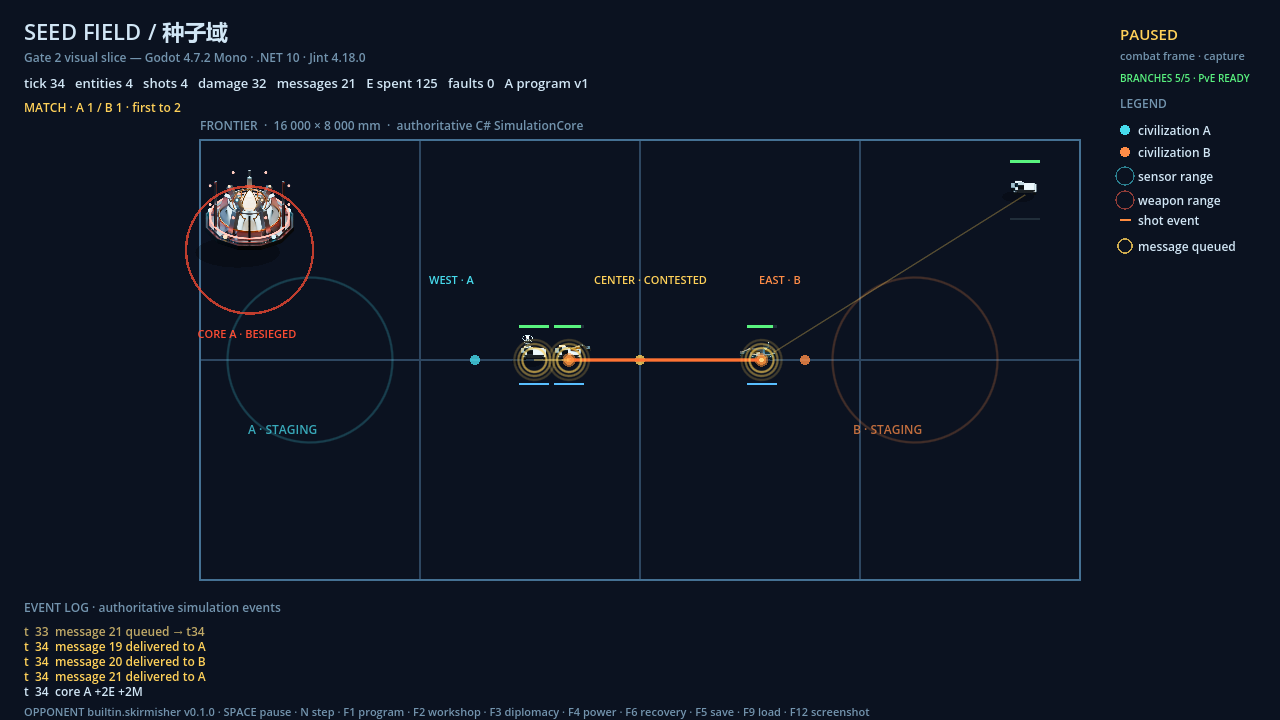
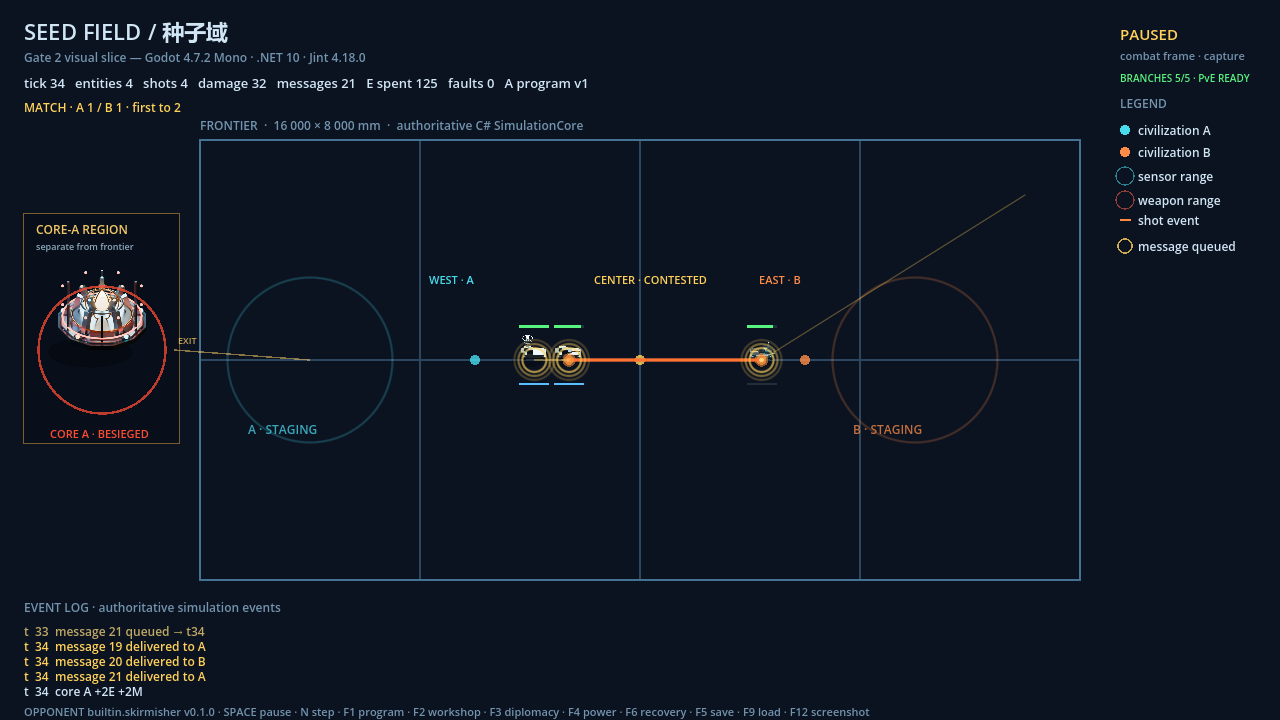
fix(game): SeedField 情报可见性与核心区归属
Draw only own plus observed enemy entities in normal play; F10/--omniscient-debug is the explicit all-knowing switch. Move the core into a separate CORE-A REGION panel linked to the frontier exit instead of placing it on frontier coordinates. Add visibility smoke and capture the normal/omniscient views.

diff --git a/game/SeedField.Game/Scripts/Main.Presentation.cs b/game/SeedField.Game/Scripts/Main.Presentation.cs
@@ -6,6 +6,7 @@ namespace SeedField.Game;
 public partial class Main
 {
     private readonly Dictionary<long, FacingState> _facing = new();
+    private readonly List<VisualEntitySnapshot> _visibleEntities = new();
     private VisualAssetCatalog _visualCatalog = null!;
     private EntityVisual _entityVisual = null!;
     private CoreVisual _coreVisual = null!;
@@ -13,12 +14,14 @@ public partial class Main
     private bool _tacticalVisible;
     private bool _debugVisible;
     private bool _classicVisuals;
+    private bool _omniscientDebug;
 
     private readonly record struct FacingState(Vec2 Position, int Direction);
 
     private void InitializePresentation(string[] arguments)
     {
         _classicVisuals = arguments.Contains("--classic-visuals");
+        _omniscientDebug = arguments.Contains("--omniscient-debug");
         if (_classicVisuals)
         {
             return;
@@ -27,30 +30,59 @@ public partial class Main
         _visualCatalog = VisualAssetCatalog.Load();
         _entityVisual = new EntityVisual(_visualCatalog);
         _coreVisual = new CoreVisual(_visualCatalog);
+        UpdateFacing();
     }
 
     private void UpdateFacing()
     {
-        if (_classicVisuals)
-        {
-            return;
-        }
+        RefreshVisibleEntities();
 
         var alive = new HashSet<long>();
-        foreach (var entity in _world.EnumerateEntities()
-                     .Where(entity => entity.RegionId == "frontier"))
+        foreach (var entity in _visibleEntities)
         {
-            alive.Add(entity.Id.Value);
-            var direction = _facing.TryGetValue(entity.Id.Value, out var previous)
+            alive.Add(entity.EntityId);
+            var direction = _facing.TryGetValue(entity.EntityId, out var previous)
                 ? DirectionFor(previous.Position, entity.Position, previous.Direction)
                 : 0;
-            _facing[entity.Id.Value] = new FacingState(entity.Position, direction);
+            _facing[entity.EntityId] = new FacingState(entity.Position, direction);
         }
 
         foreach (var stale in _facing.Keys.Where(id => !alive.Contains(id)).ToList())
         {
             _facing.Remove(stale);
         }
+    }
+
+    private void RefreshVisibleEntities()
+    {
+        _visibleEntities.Clear();
+        if (_classicVisuals)
+        {
+            return;
+        }
+
+        var own = _world.EnumerateEntities()
+            .Where(entity => entity.RegionId == "frontier" &&
+                             string.Equals(entity.CivilizationId, "A", StringComparison.Ordinal))
+            .Select(VisualEntitySnapshot.From);
+        _visibleEntities.AddRange(own);
+
+        if (_omniscientDebug)
+        {
+            _visibleEntities.AddRange(_world.EnumerateEntities()
+                .Where(entity => entity.RegionId == "frontier" &&
+                                 !string.Equals(entity.CivilizationId, "A", StringComparison.Ordinal))
+                .Select(VisualEntitySnapshot.From));
+        }
+        else
+        {
+            var observation = ObservationBuilder.Build(_world, "A");
+            _visibleEntities.AddRange(observation.Entities
+                .Where(entity => !entity.IsSelf && entity.RegionId == "frontier")
+                .Select(VisualEntitySnapshot.FromObserved));
+        }
+
+        _visibleEntities.Sort((left, right) => left.Position.Y.CompareTo(right.Position.Y));
     }
 
     private static int DirectionFor(Vec2 previous, Vec2 current, int fallback)
@@ -71,11 +103,7 @@ public partial class Main
 
     private void DrawPresentationEntities()
     {
-        var snapshots = _world.EnumerateEntities()
-            .Where(entity => entity.RegionId == "frontier")
-            .Select(VisualEntitySnapshot.From)
-            .OrderBy(entity => entity.Position.Y)
-            .ToList();
+        var snapshots = _visibleEntities;
 
         if (_tacticalVisible)
         {
@@ -118,9 +146,47 @@ public partial class Main
             return;
         }
 
+        // The core lives in its own region (core-a). Show it in a separate
+        // region panel and connect it to the frontier staging exit; never place
+        // the core body itself on frontier coordinates.
+        var origin = new Vector2(24, 214);
+        DrawRect(new Rect2(origin, new Vector2(156, 230)), new Color(0.03f, 0.06f, 0.10f, 0.94f));
+        DrawRect(new Rect2(origin, new Vector2(156, 230)), new Color(0.55f, 0.42f, 0.20f, 0.85f), false, 1f);
+        DrawString(
+            ThemeDB.FallbackFont,
+            origin + new Vector2(12, 20),
+            "CORE-A REGION",
+            HorizontalAlignment.Left,
+            -1,
+            12,
+            new Color(0.95f, 0.78f, 0.40f));
+        DrawString(
+            ThemeDB.FallbackFont,
+            origin + new Vector2(12, 36),
+            "separate from frontier",
+            HorizontalAlignment.Left,
+            -1,
+            9,
+            new Color(0.55f, 0.66f, 0.74f));
+
+        var corePosition = origin + new Vector2(78, 136);
+        var exit = Map(new Vec2(2_000, 4_000));
+        DrawLine(
+            origin + new Vector2(150, 136),
+            exit,
+            new Color(0.95f, 0.78f, 0.40f, 0.55f),
+            1.4f);
+        DrawString(
+            ThemeDB.FallbackFont,
+            origin + new Vector2(154, 130),
+            "EXIT",
+            HorizontalAlignment.Left,
+            -1,
+            9,
+            new Color(0.95f, 0.78f, 0.40f, 0.80f));
         _coreVisual.Draw(
             this,
-            Map(new Vec2(900, 2_000)),
+            corePosition,
             state,
             _world.Tick,
             _debugVisible);
@@ -130,7 +196,7 @@ public partial class Main
     {
         DebugOverlay.Draw(
             this,
-            new Vector2(24, 130),
+            new Vector2(900, 130),
             _world.EnumerateEntities().Count(),
             _world.Tick);
     }
@@ -175,10 +241,24 @@ public partial class Main
             : "<destroyed>";
         var ok = result.Success &&
                  before == "worker_frame_sensor" &&
-                 after == "worker_frame_drill";
+                 after == "worker_frame_weapon";
         GD.Print(
             $"MODULE_SWAP_SMOKE before={before} after={after} " +
             $"version={latest.Version} ok={ok}");
+        GetTree().Quit(ok ? 0 : 1);
+    }
+
+    private void RunVisibilitySmoke()
+    {
+        ResetScenario(peaceful: false, preRun: true);
+        RefreshVisibleEntities();
+        var hidden = _visibleEntities.All(entity => entity.EntityId != 4);
+        _omniscientDebug = true;
+        RefreshVisibleEntities();
+        var omniscient = _visibleEntities.Any(entity => entity.EntityId == 4);
+        var ok = hidden && omniscient;
+        GD.Print(
+            $"VISIBILITY_SMOKE unseenB4={hidden} omniscientB4={omniscient} ok={ok}");
         GetTree().Quit(ok ? 0 : 1);
     }
 

diff --git a/game/SeedField.Game/Scripts/Main.cs b/game/SeedField.Game/Scripts/Main.cs
@@ -72,6 +72,7 @@ public partial class Main : Node2D
     private bool _captureVisual;
     private bool _captureTactical;
     private bool _captureDebug;
+    private bool _captureOmniscient;
     private int _frame;
     private int _faultCount;
     private string _status = "booting";
@@ -106,6 +107,12 @@ public partial class Main : Node2D
         if (arguments.Contains("--capture-module-swap"))
         {
             ConfigureModuleSwapCapture();
+            return;
+        }
+
+        if (arguments.Contains("--visibility-smoke"))
+        {
+            RunVisibilitySmoke();
             return;
         }
 
@@ -167,8 +174,10 @@ public partial class Main : Node2D
         _captureVisual = arguments.Contains("--capture-visual");
         _captureTactical = arguments.Contains("--capture-tactical");
         _captureDebug = arguments.Contains("--capture-debug");
+        _captureOmniscient = arguments.Contains("--capture-omniscient");
         _tacticalVisible = _captureTactical;
-        _debugVisible = _captureDebug;
+        _debugVisible = _captureDebug || _captureOmniscient;
+        _omniscientDebug |= _captureOmniscient;
         _paused = arguments.Contains("--capture") ||
                   _captureEditor ||
                   _captureWorkshop ||
@@ -179,7 +188,8 @@ public partial class Main : Node2D
                   _captureVictory ||
                   _captureVisual ||
                   _captureTactical ||
-                  _captureDebug;
+                  _captureDebug ||
+                  _captureOmniscient;
         _captureRequested = _paused;
         _capturePath = _captureEditor
             ? "res://screenshots/m0-program-editor.png"
@@ -201,7 +211,10 @@ public partial class Main : Node2D
                                             ? "res://screenshots/art-main-tactical.png"
                                             : _captureDebug
                                                 ? "res://screenshots/art-main-debug.png"
-                                                : "res://screenshots/m0-combat.png";
+                                                : _captureOmniscient
+                                                    ? "res://screenshots/art-main-omniscient.png"
+                                                    : "res://screenshots/m0-combat.png";
+        UpdateFacing();
 
         if (_captureEditor)
         {
@@ -388,6 +401,15 @@ public partial class Main : Node2D
         if (key.Keycode == Key.F8)
         {
             _debugVisible = !_debugVisible;
+            QueueRedraw();
+            GetViewport().SetInputAsHandled();
+            return;
+        }
+
+        if (key.Keycode == Key.F10)
+        {
+            _omniscientDebug = !_omniscientDebug;
+            UpdateFacing();
             QueueRedraw();
             GetViewport().SetInputAsHandled();
             return;

diff --git a/game/SeedField.Game/Scripts/Presentation/VisualEntitySnapshot.cs b/game/SeedField.Game/Scripts/Presentation/VisualEntitySnapshot.cs
@@ -23,6 +23,23 @@ public readonly record struct VisualEntitySnapshot(
     bool HasDrive,
     bool HasComm)
 {
+    public static VisualEntitySnapshot FromObserved(ObservedEntity entity) => new(
+        entity.EntityId,
+        entity.CivilizationId,
+        entity.Position,
+        entity.Health,
+        entity.MaxHealth,
+        Energy: 0,
+        EnergyCapacity: 0,
+        BlueprintId: null,
+        BlueprintVersion: 0,
+        entity.HasSensor,
+        entity.SensorRangeMm,
+        entity.HasWeapon,
+        entity.WeaponRangeMm,
+        entity.HasDrive,
+        entity.HasComm);
+
     public static VisualEntitySnapshot From(EntityState entity) => new(
         entity.Id.Value,
         entity.CivilizationId,
@@ -44,8 +61,10 @@ public readonly record struct VisualEntitySnapshot(
         string.Equals(BlueprintId, "power", StringComparison.Ordinal)
             ? "power_node"
             : HasWeapon
-                ? "worker_frame_drill"
-                : HasSensor
-                    ? "worker_frame_sensor"
-                    : "worker_frame";
+                ? "worker_frame_weapon"
+                : BlueprintId is { } id && id.Contains("drill", StringComparison.Ordinal)
+                    ? "worker_frame_drill"
+                    : HasSensor
+                        ? "worker_frame_sensor"
+                        : "worker_frame";
 }

diff --git a/game/SeedField.Game/Scripts/Presentation/TacticalOverlay.cs b/game/SeedField.Game/Scripts/Presentation/TacticalOverlay.cs
@@ -104,7 +104,7 @@ public static class DebugOverlay
             $"tick {tick} · entities {entities} · fps {Engine.GetFramesPerSecond():0}",
             $"process {Performance.GetMonitor(Performance.Monitor.TimeProcess) * 1000f:0.0} ms",
             "cyan = sprite bounds · amber = pivot",
-            "F7 tactical · F8 debug · F12 screenshot",
+            "F7 tactical · F8 debug · F10 omniscient · F12 screenshot",
         };
 
         canvas.DrawRect(
